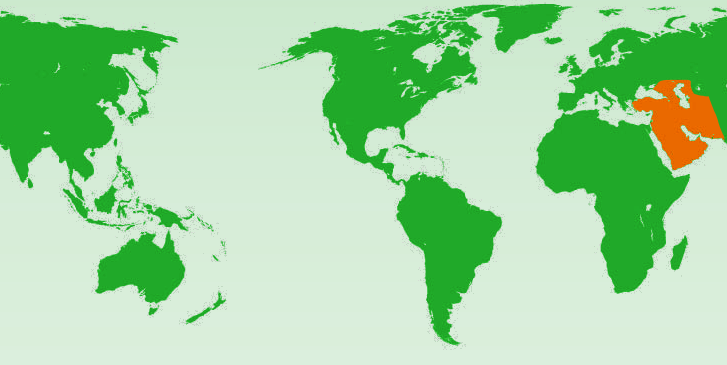
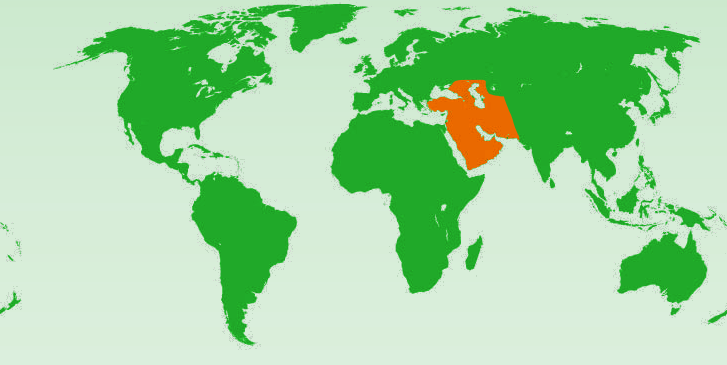
Worlds

diff --git a/docs/css/styles.css b/docs/css/styles.css
@@ -728,9 +728,12 @@ body {
     border-radius: 365px;
     position: relative;
 
-    animation: turn1 25s infinite linear;
-    -webkit-animation: turn1 25s infinite linear;
-    box-shadow: 0px 15px 60px rgba(255, 255, 255, 0.5) inset, 1em 0px 0px rgba(255, 255, 255, 0.1) inset;
+
+    animation: turn2 45s infinite linear;
+    -webkit-animation: turn2 45s infinite linear;
+    box-shadow: 0px 15px 60px rgba(255, 255, 255, 0.1) inset, 1em 0px 0px rgba(255, 255, 255, 0.5) inset;
+
+
 }
 
 .mundo:hover {
@@ -746,9 +749,10 @@ body {
 
 .america {
     background: url('../images/mapa/america.png') repeat-x 0 0;
-    animation: turn2 25s infinite linear;
-    -webkit-animation: turn2 25s infinite linear;
-    box-shadow: 0px 15px 60px rgba(255, 255, 255, 0.1) inset, 1em 0px 0px rgba(255, 255, 255, 0.5) inset;
+    animation: turn1 45s infinite linear;
+    -webkit-animation: turn1 45s infinite linear;
+    box-shadow: 0px 15px 60px rgba(255, 255, 255, 0.5) inset, 1em 0px 0px rgba(255, 255, 255, 0.1) inset;
+
 }
 
 .asia {
@@ -757,9 +761,9 @@ body {
 
 .europa {
     background: url('../images/mapa/europa.png') repeat-x 0 0;
-    animation: turn2 25s infinite linear;
-    -webkit-animation: turn2 25s infinite linear;
-    box-shadow: 0px 15px 60px rgba(255, 255, 255, 0.1) inset, 1em 0px 0px rgba(255, 255, 255, 0.5) inset;
+    animation: turn1 45s infinite linear;
+    -webkit-animation: turn1 45s infinite linear;
+    box-shadow: 0px 15px 60px rgba(255, 255, 255, 0.5) inset, 1em 0px 0px rgba(255, 255, 255, 0.1) inset;
 }
 
 .oriente {
@@ -827,21 +831,20 @@ body {
 @keyframes turn2 {
     0% {
         background-position: 0 0;
-    }
-
-    5% {
         box-shadow: 0px 15px 20px rgba(255, 255, 255, 0.5) inset, 25em 0px 80px rgba(0, 0, 0, 0.8) inset;
-    }
 
+    }
 
     50% {
         background-position: -365px 0;
+        box-shadow: none;
 
     }
 
 
     100% {
         background-position: -727px 0;
+        box-shadow: 0px 15px 20px rgba(255, 255, 255, 0.5) inset, 25em 0px 80px rgba(0, 0, 0, 0.8) inset;
 
     }
 }
@@ -850,23 +853,22 @@ body {
 
     0% {
         background-position: 0 0;
-
-    }
-
-    5% {
         box-shadow: 0px 15px 20px rgba(255, 255, 255, 0.5) inset, 25em 0px 80px rgba(0, 0, 0, 0.8) inset;
+
+
     }
 
 
     50% {
         background-position: -365px 0;
+        box-shadow: none;
 
     }
 
 
-
     100% {
-        background-position: -727px 0
+        background-position: -727px 0;
+        box-shadow: 0px 15px 20px rgba(255, 255, 255, 0.5) inset, 25em 0px 80px rgba(0, 0, 0, 0.8) inset;
     }
 }
 
